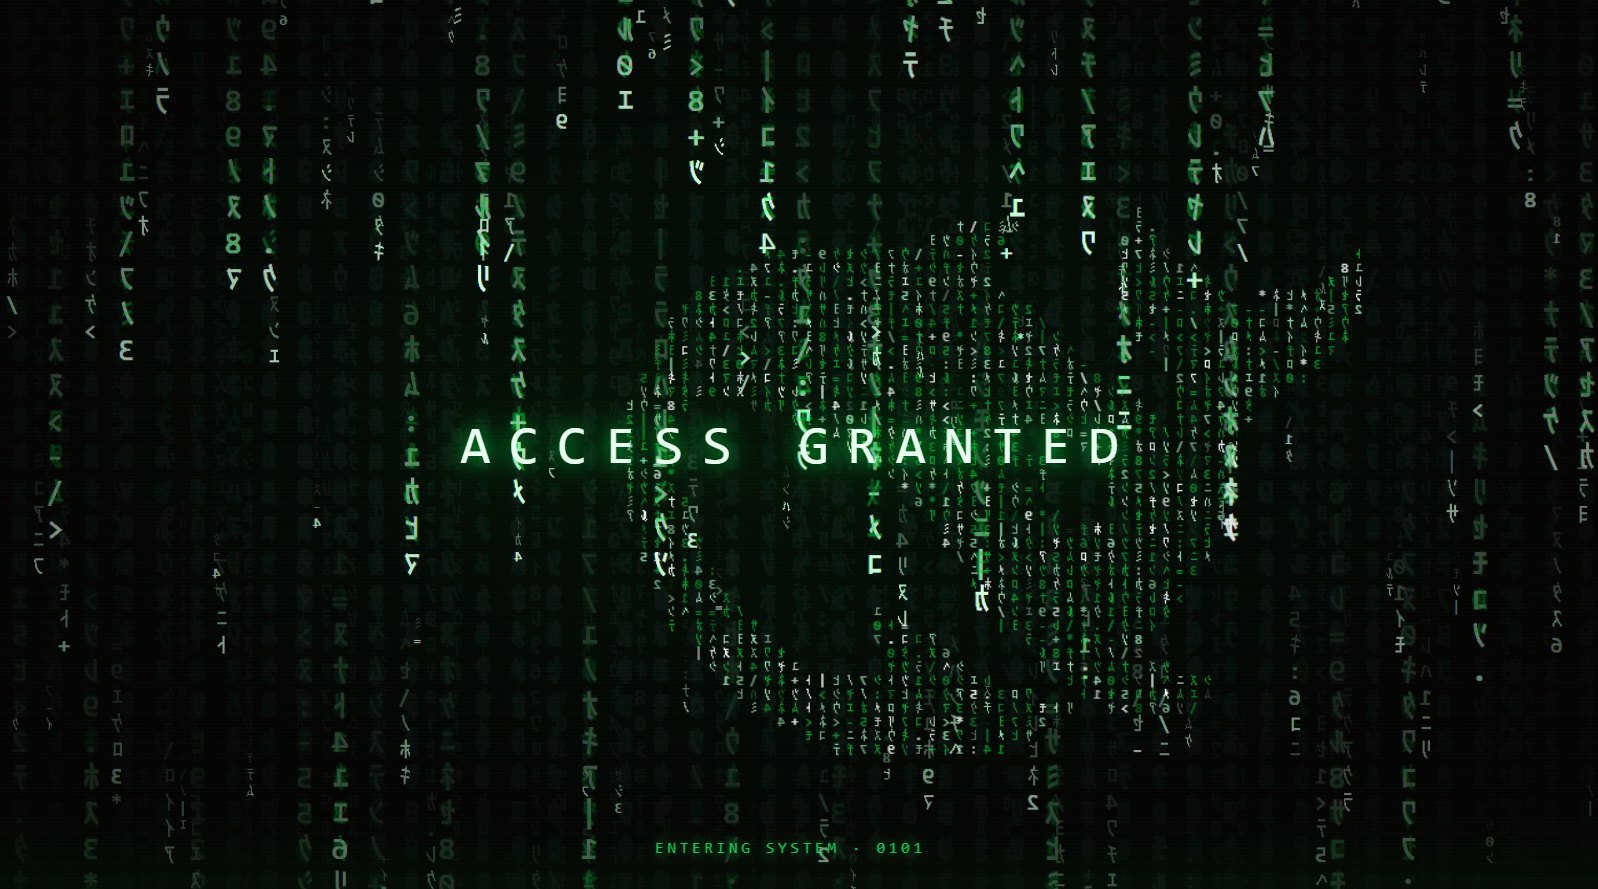
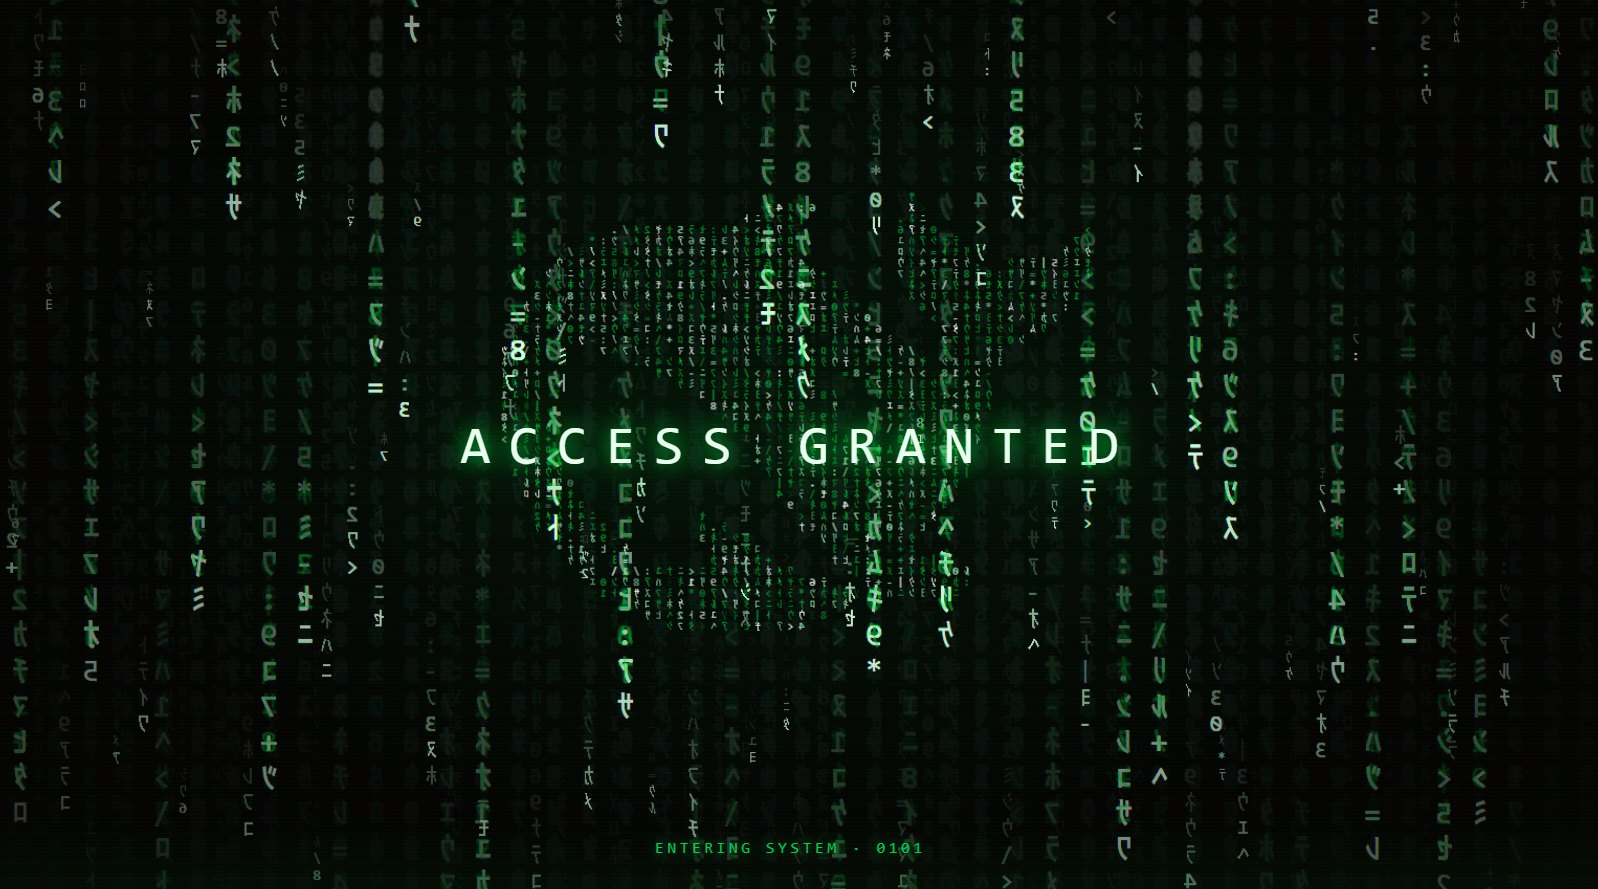
fix(matrix): 鲸鱼居中(修正 canvas 被裁切) + 标题加大

diff --git a/splashes/matrix/index.html b/splashes/matrix/index.html
@@ -70,6 +70,9 @@
   /* 鲸鱼层: 和雨分开一块画布 —— 硬切黑场时雨要瞬间消失, 鲸鱼得留下来当文字背景 */
   #whale{
     position:fixed;inset:0;z-index:7;display:block;pointer-events:none;
+    /* canvas 是替换元素, 光有 inset:0 不会拉伸 —— 必须显式给 100%,
+       否则按物理像素尺寸(含 dpr)铺出去, 右下会被视口裁掉, 看起来整体偏右下 */
+    width:100%;height:100%;
     transition:opacity .8s ease;
   }
   /* 切到片尾标题卡后压低一点, 免得盖过文字 */
@@ -143,7 +146,7 @@
   }
   #title{
     font-family:Georgia,"Times New Roman","Songti SC","SimSun",serif;
-    font-size:clamp(26px,4.2vw,62px);font-weight:400;letter-spacing:.3em;
+    font-size:clamp(32px,5.4vw,84px);font-weight:400;letter-spacing:.28em;
     color:#e6f6e8;white-space:nowrap;
     text-shadow:0 0 3px rgba(210,255,220,.35),0 0 22px rgba(0,255,72,.3),
                 0 0 60px rgba(0,255,72,.18);
@@ -414,7 +417,7 @@ function buildWhale(){
   const bh = Math.min(H * 0.50, (W * 0.66) / WHALE_ASPECT);
   const bw = bh * WHALE_ASPECT;
   const bx = (W - bw) / 2;
-  const by = H * 0.43 - bh / 2;
+  const by = H * 0.46 - bh / 2;
 
   const cols = Math.max(1, Math.floor(bw / whaleCell));
   const rows = Math.max(1, Math.floor(bh / whaleCell));
